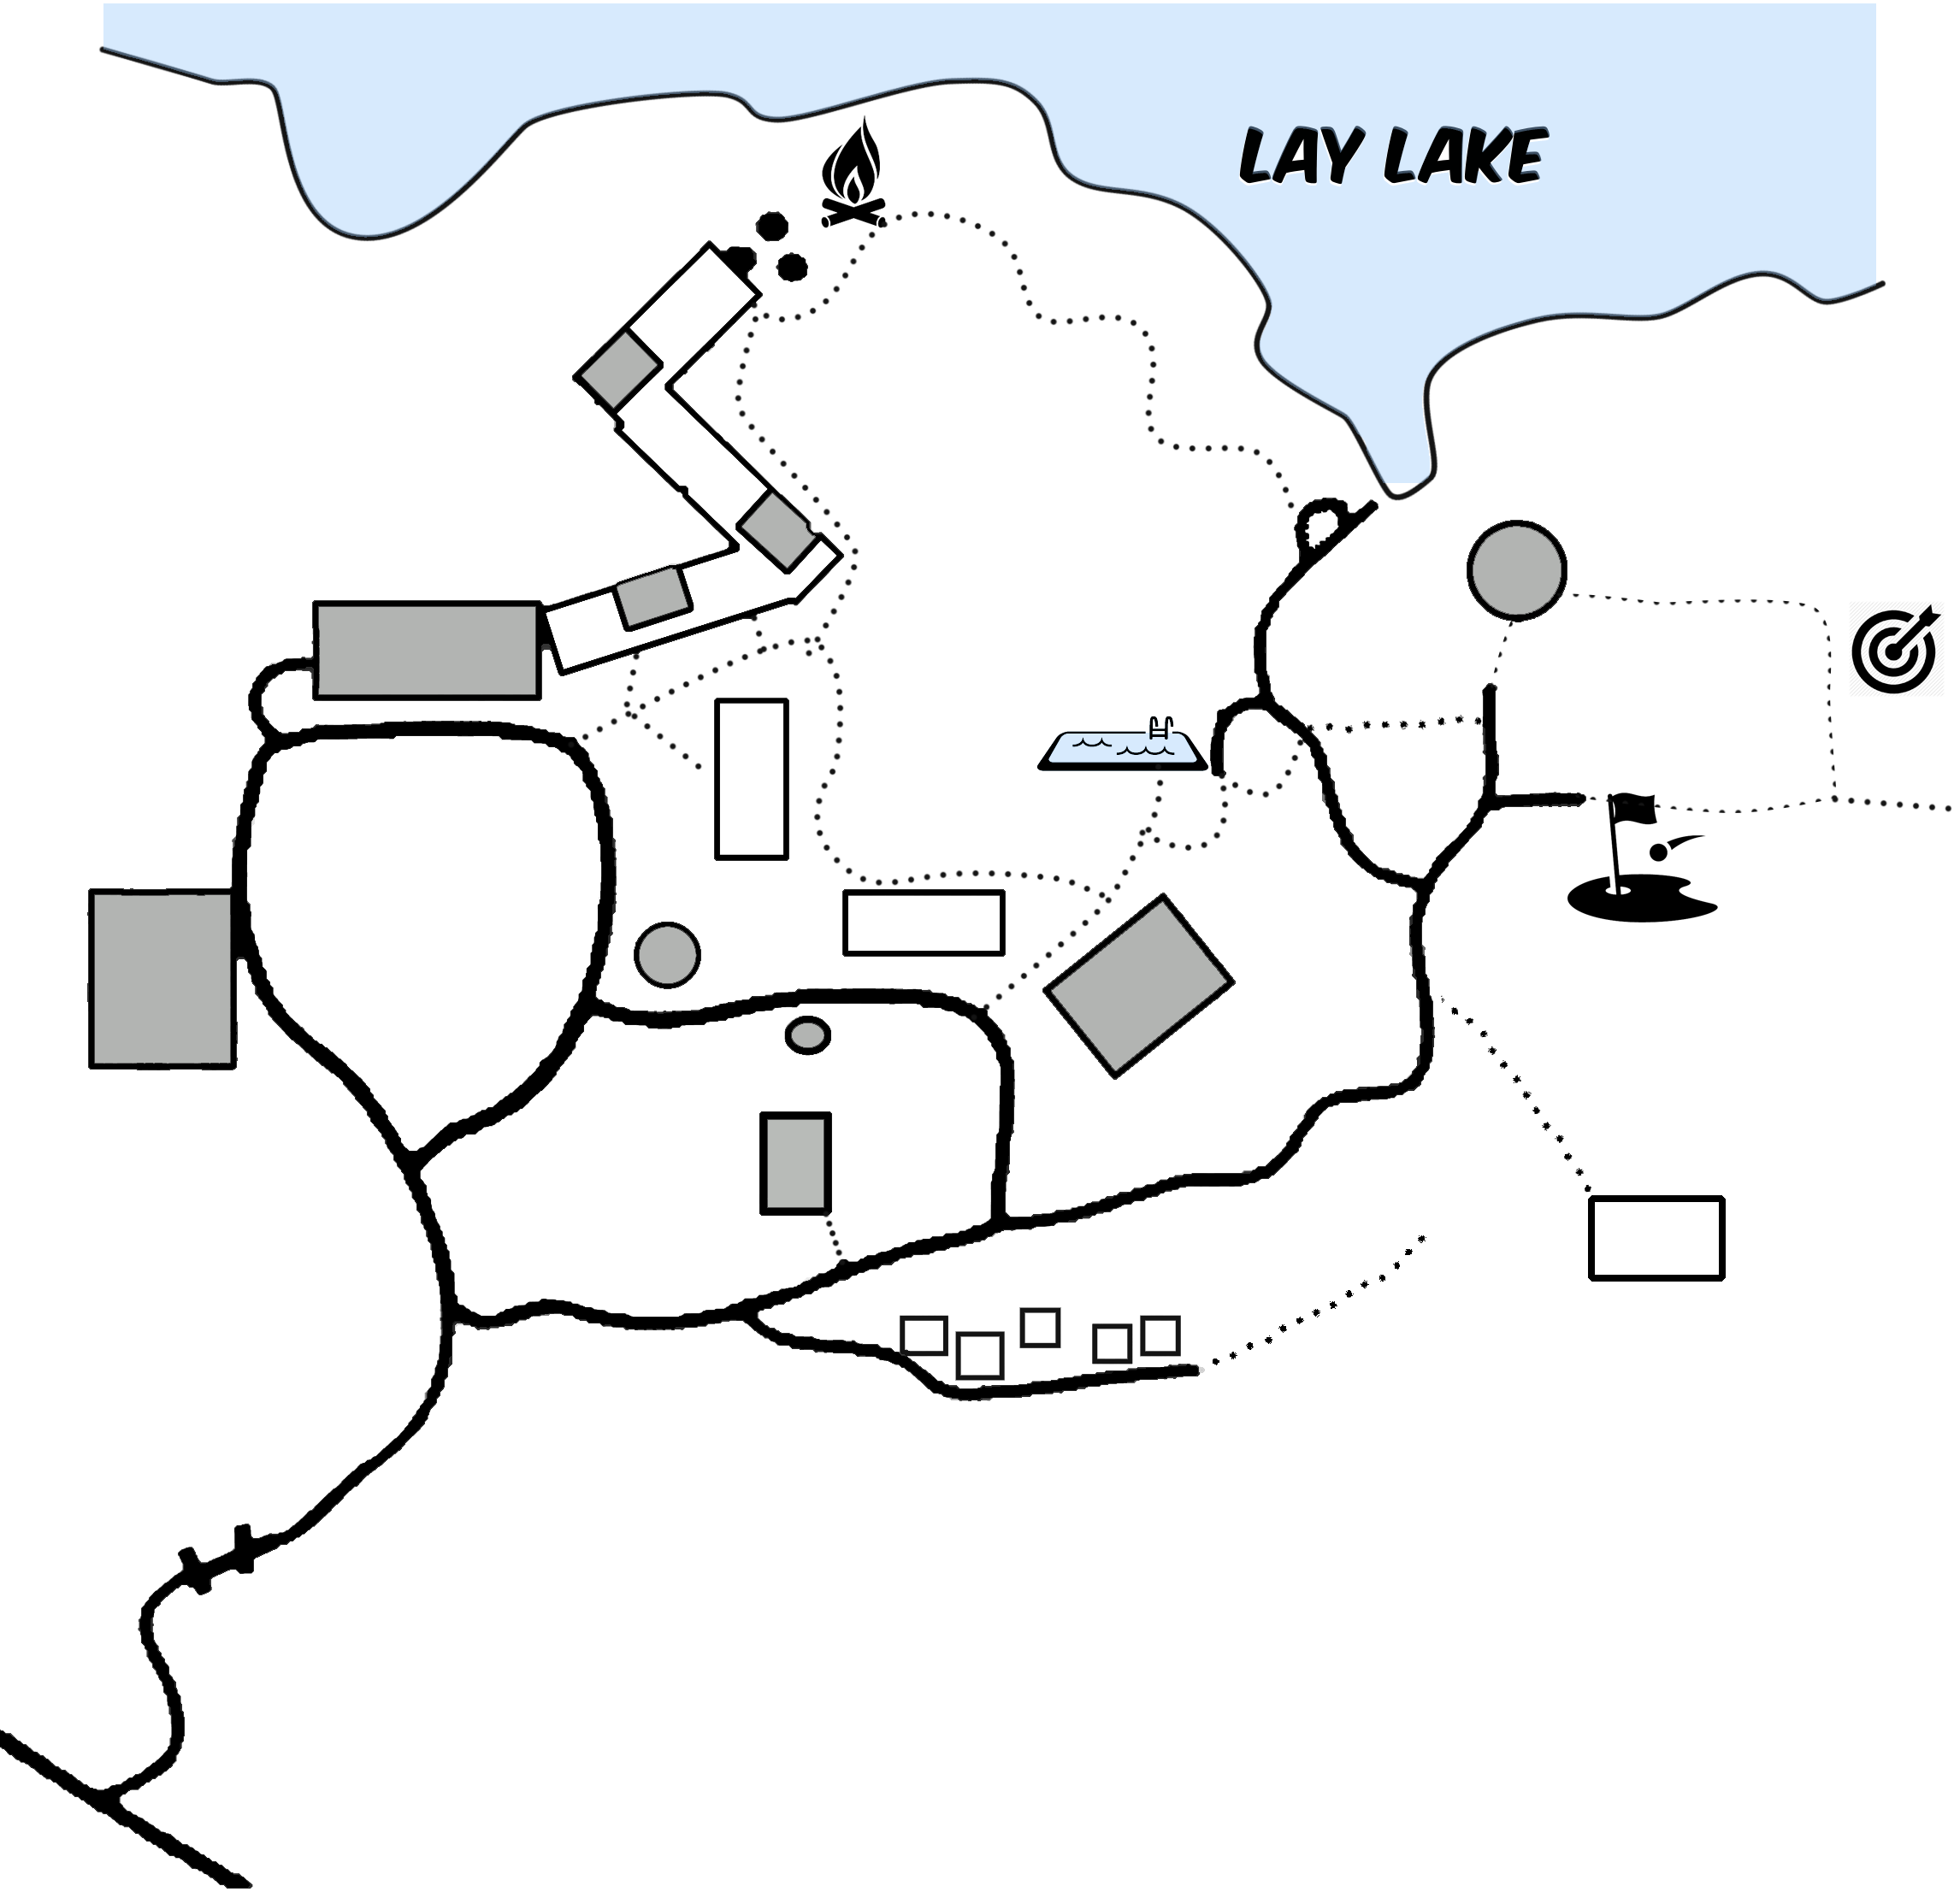
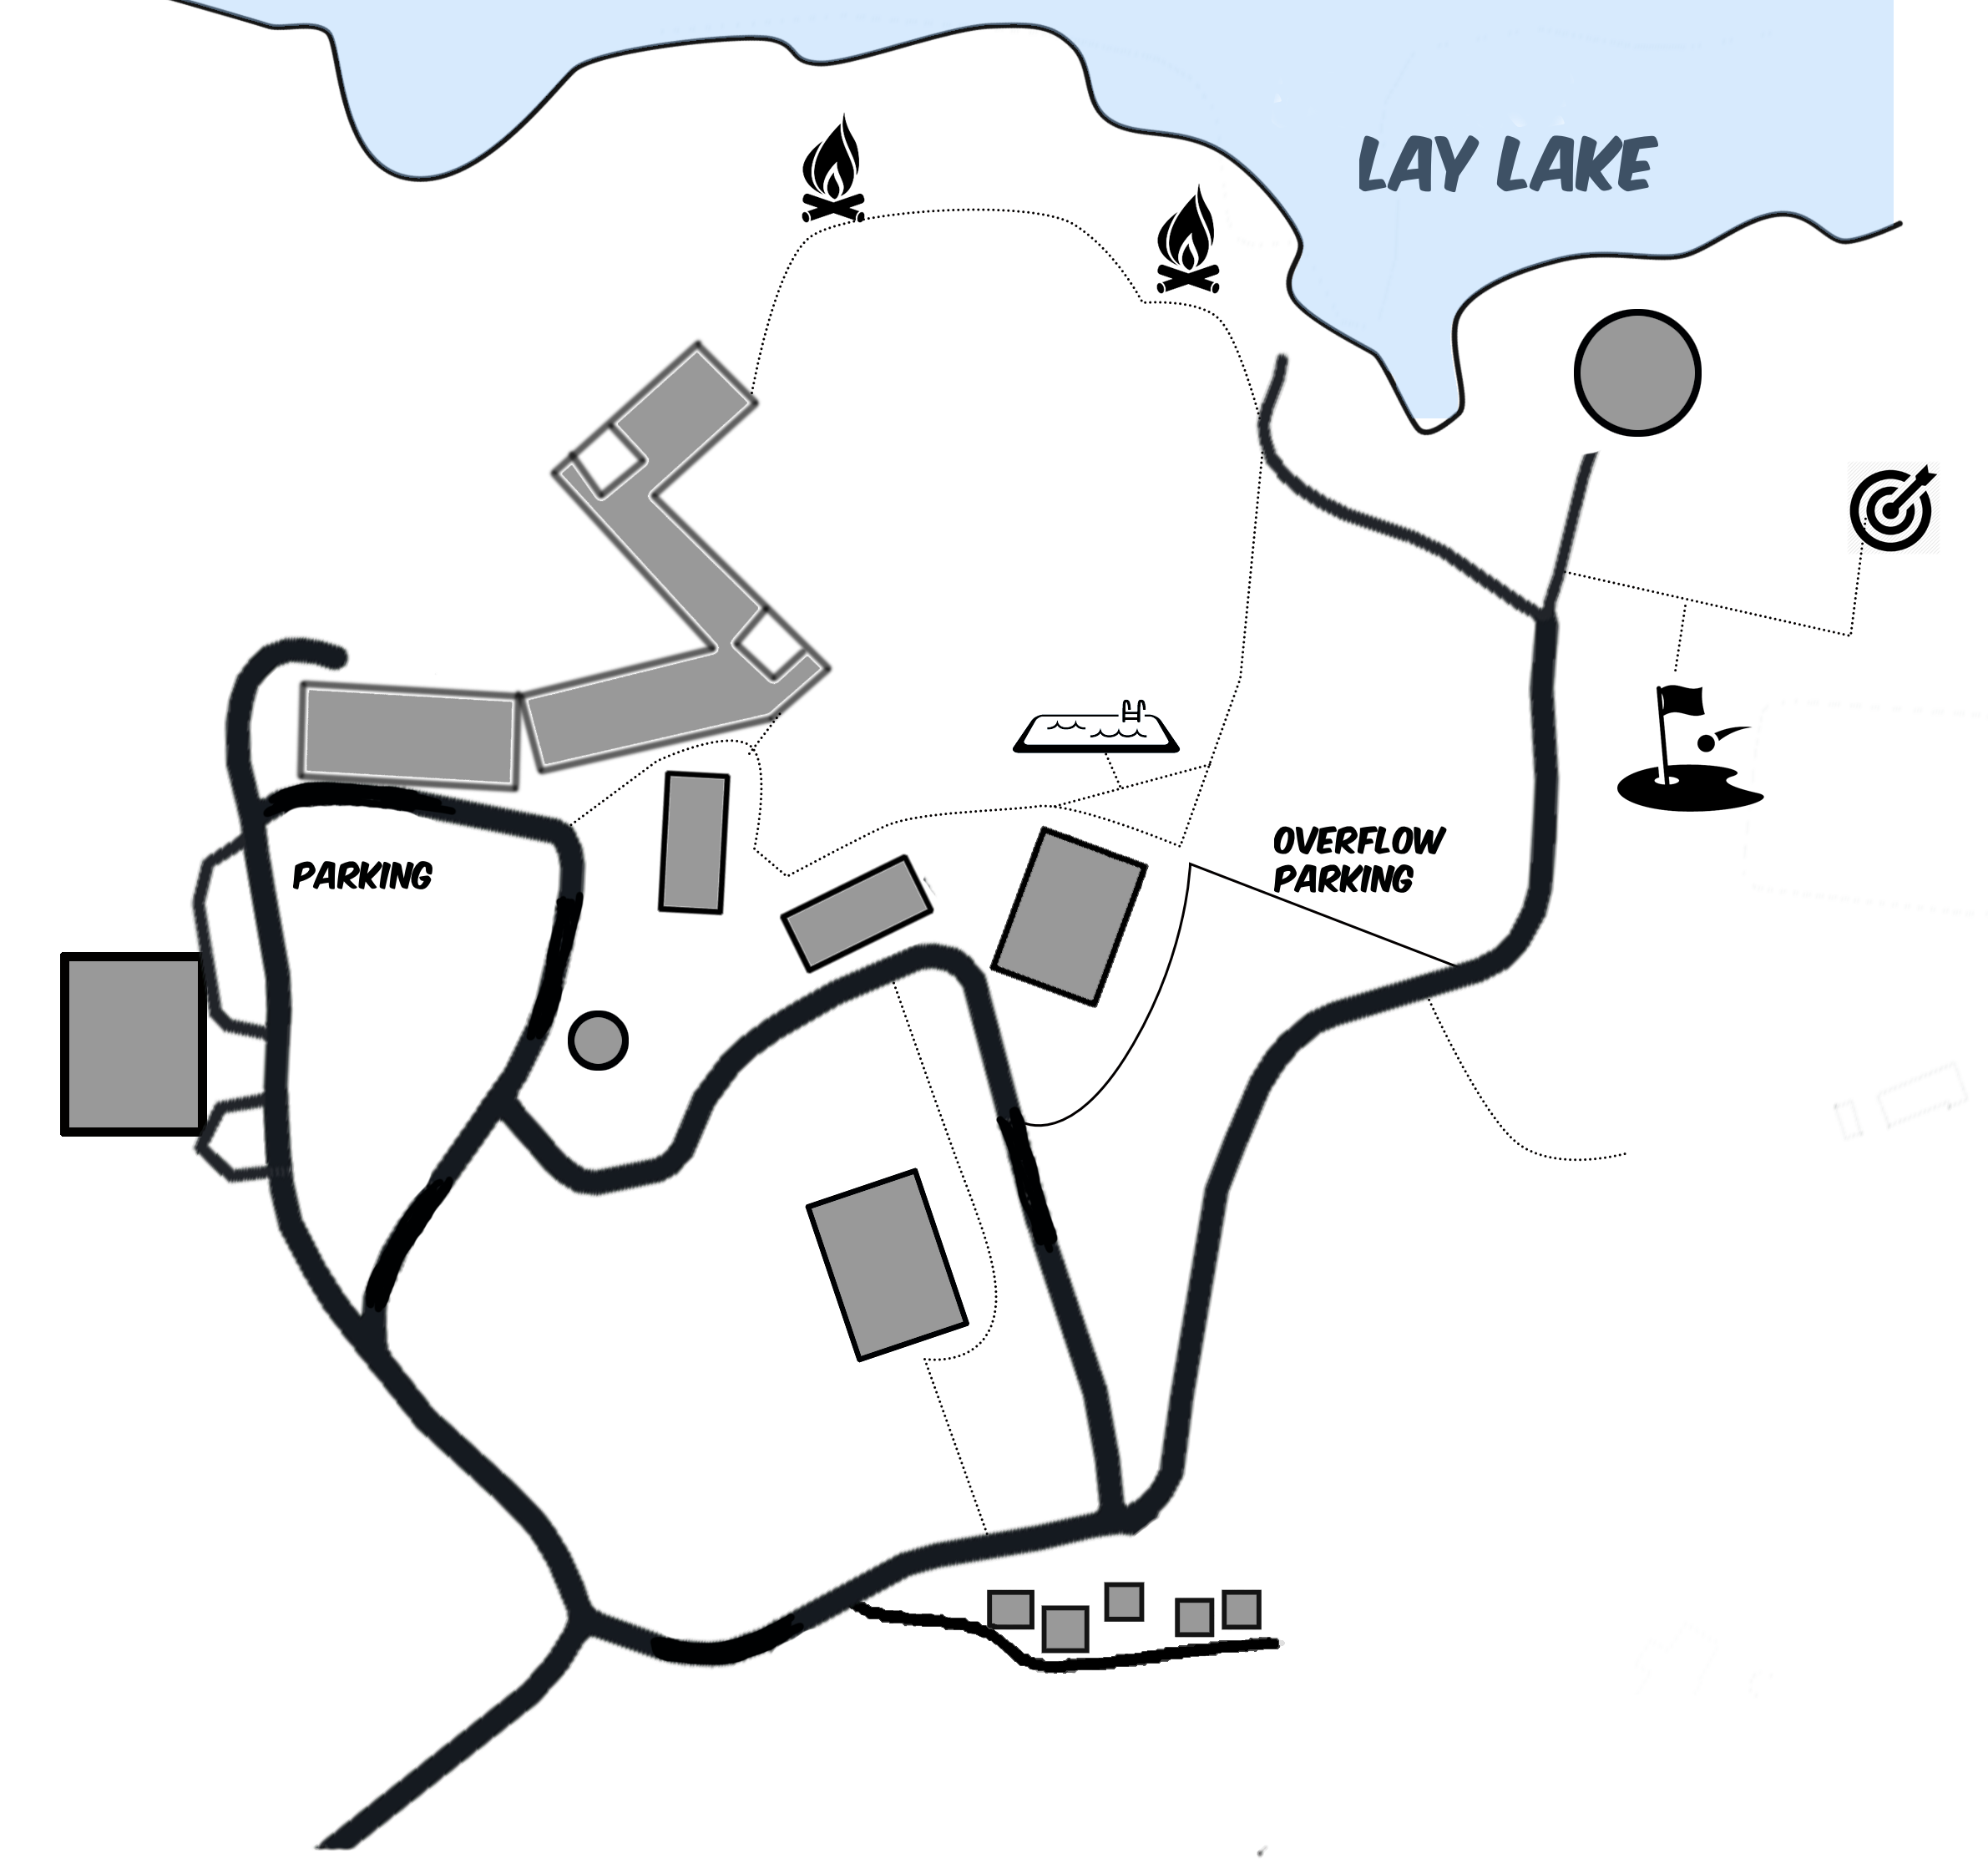
Replace venue map with Google-Maps-accurate drawing
Directors redrew the venue map to align with Google Maps. Recalibrate
hotspot rects against the new image, add Lakeview Fire Pit, rename
Fire Pit → Hotel Fire Pit and Lower Mayfield → Mayfield (with alias to
keep the sheet column matching). Update the affine control points in
map_georeference.dart so the "you are here" dot and live cart markers
project correctly onto the new drawing.

diff --git a/lib/services/map_georeference.dart b/lib/services/map_georeference.dart
@@ -26,11 +26,11 @@ class MapGeoReference {
   static final MapGeoReference instance = _fit();
 
   static const _points = <_ControlPoint>[
-    _ControlPoint(33.16675, -86.49314, 0.5728, 0.3981), // Pool (center)
-    _ControlPoint(33.16757, -86.49599, 0.0840, 0.5158), // Main Gaming (NW)
-    _ControlPoint(33.16742, -86.49389, 0.4011, 0.2785), // Theater (N-center)
-    _ControlPoint(33.16710, -86.49193, 0.7121, 0.2294), // Dock & Canoes (E)
-    _ControlPoint(33.16556, -86.49074, 0.9155, 0.3986), // Sand Volleyball (SE)
+    _ControlPoint(33.16675, -86.49314, 0.5514, 0.3808), // Pool (center)
+    _ControlPoint(33.16757, -86.49599, 0.0692, 0.5615), // Main Gaming (NW)
+    _ControlPoint(33.16742, -86.49389, 0.3911, 0.3557), // Theater (N-center)
+    _ControlPoint(33.16710, -86.49193, 0.6674, 0.2098), // Dock & Canoes (E)
+    _ControlPoint(33.16556, -86.49074, 0.8964, 0.2822), // Sand Volleyball (SE)
   ];
 
   /// Projects a GPS coordinate to normalized image coords, or null when the